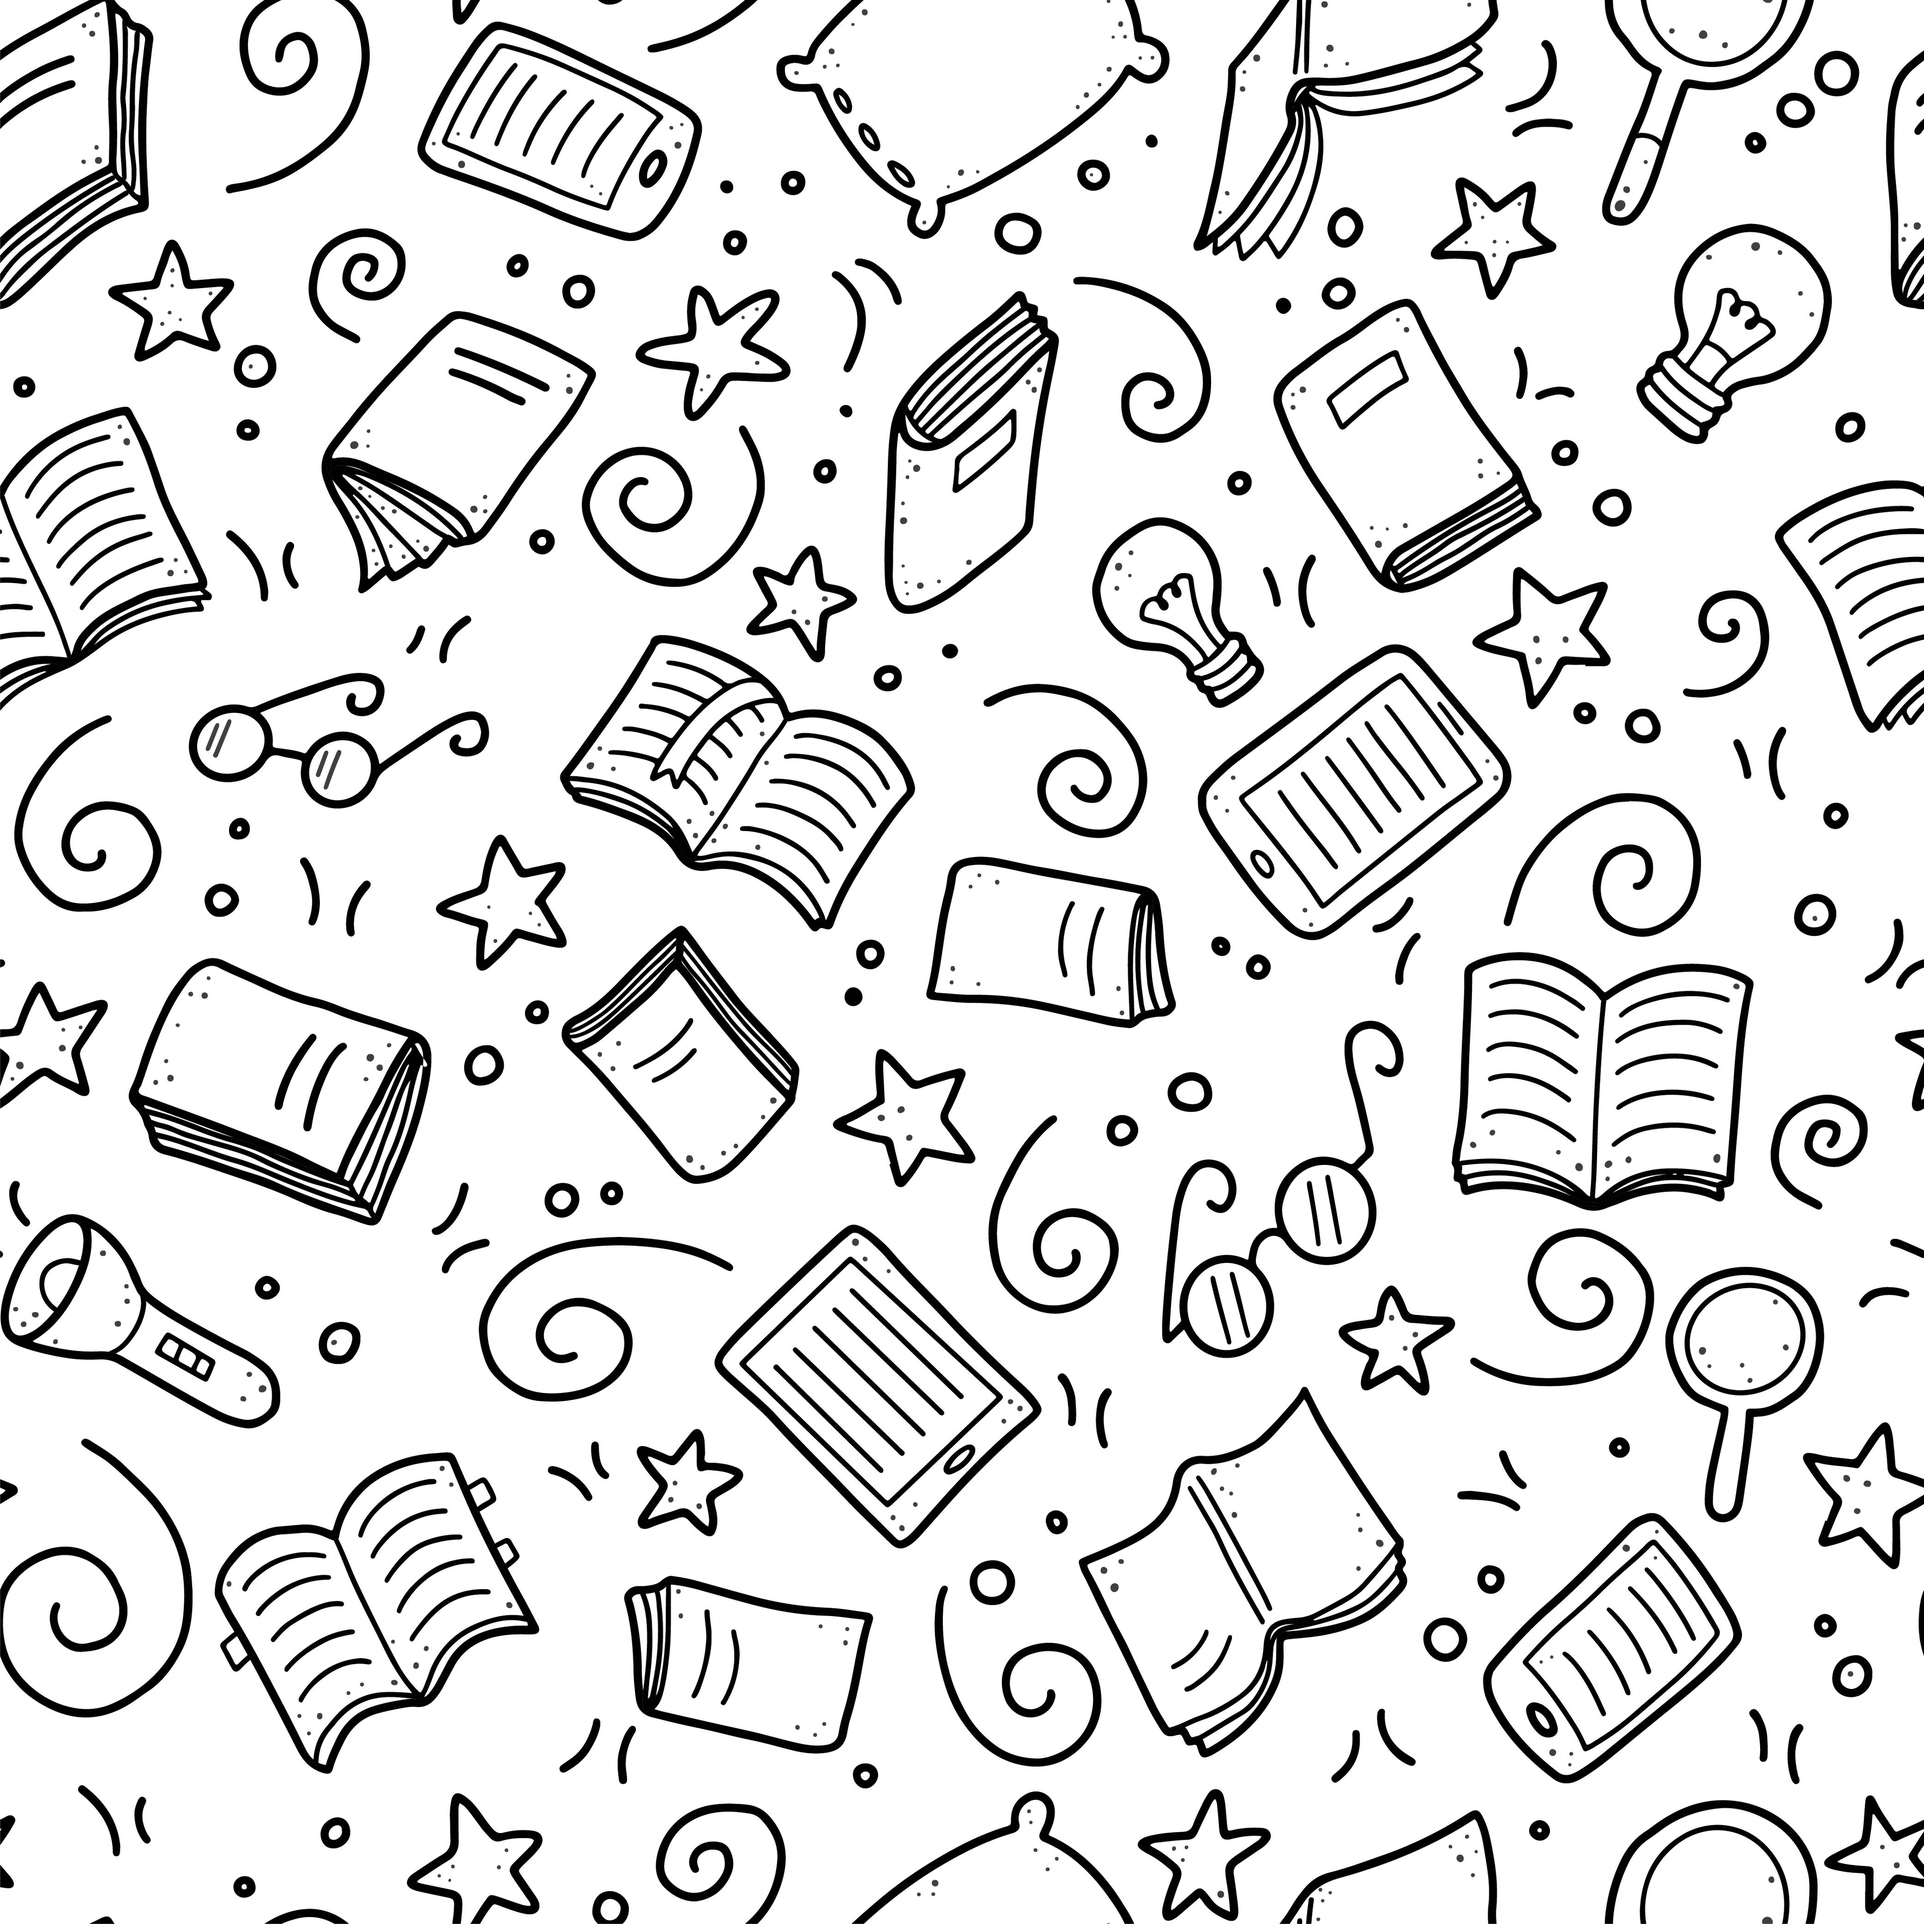
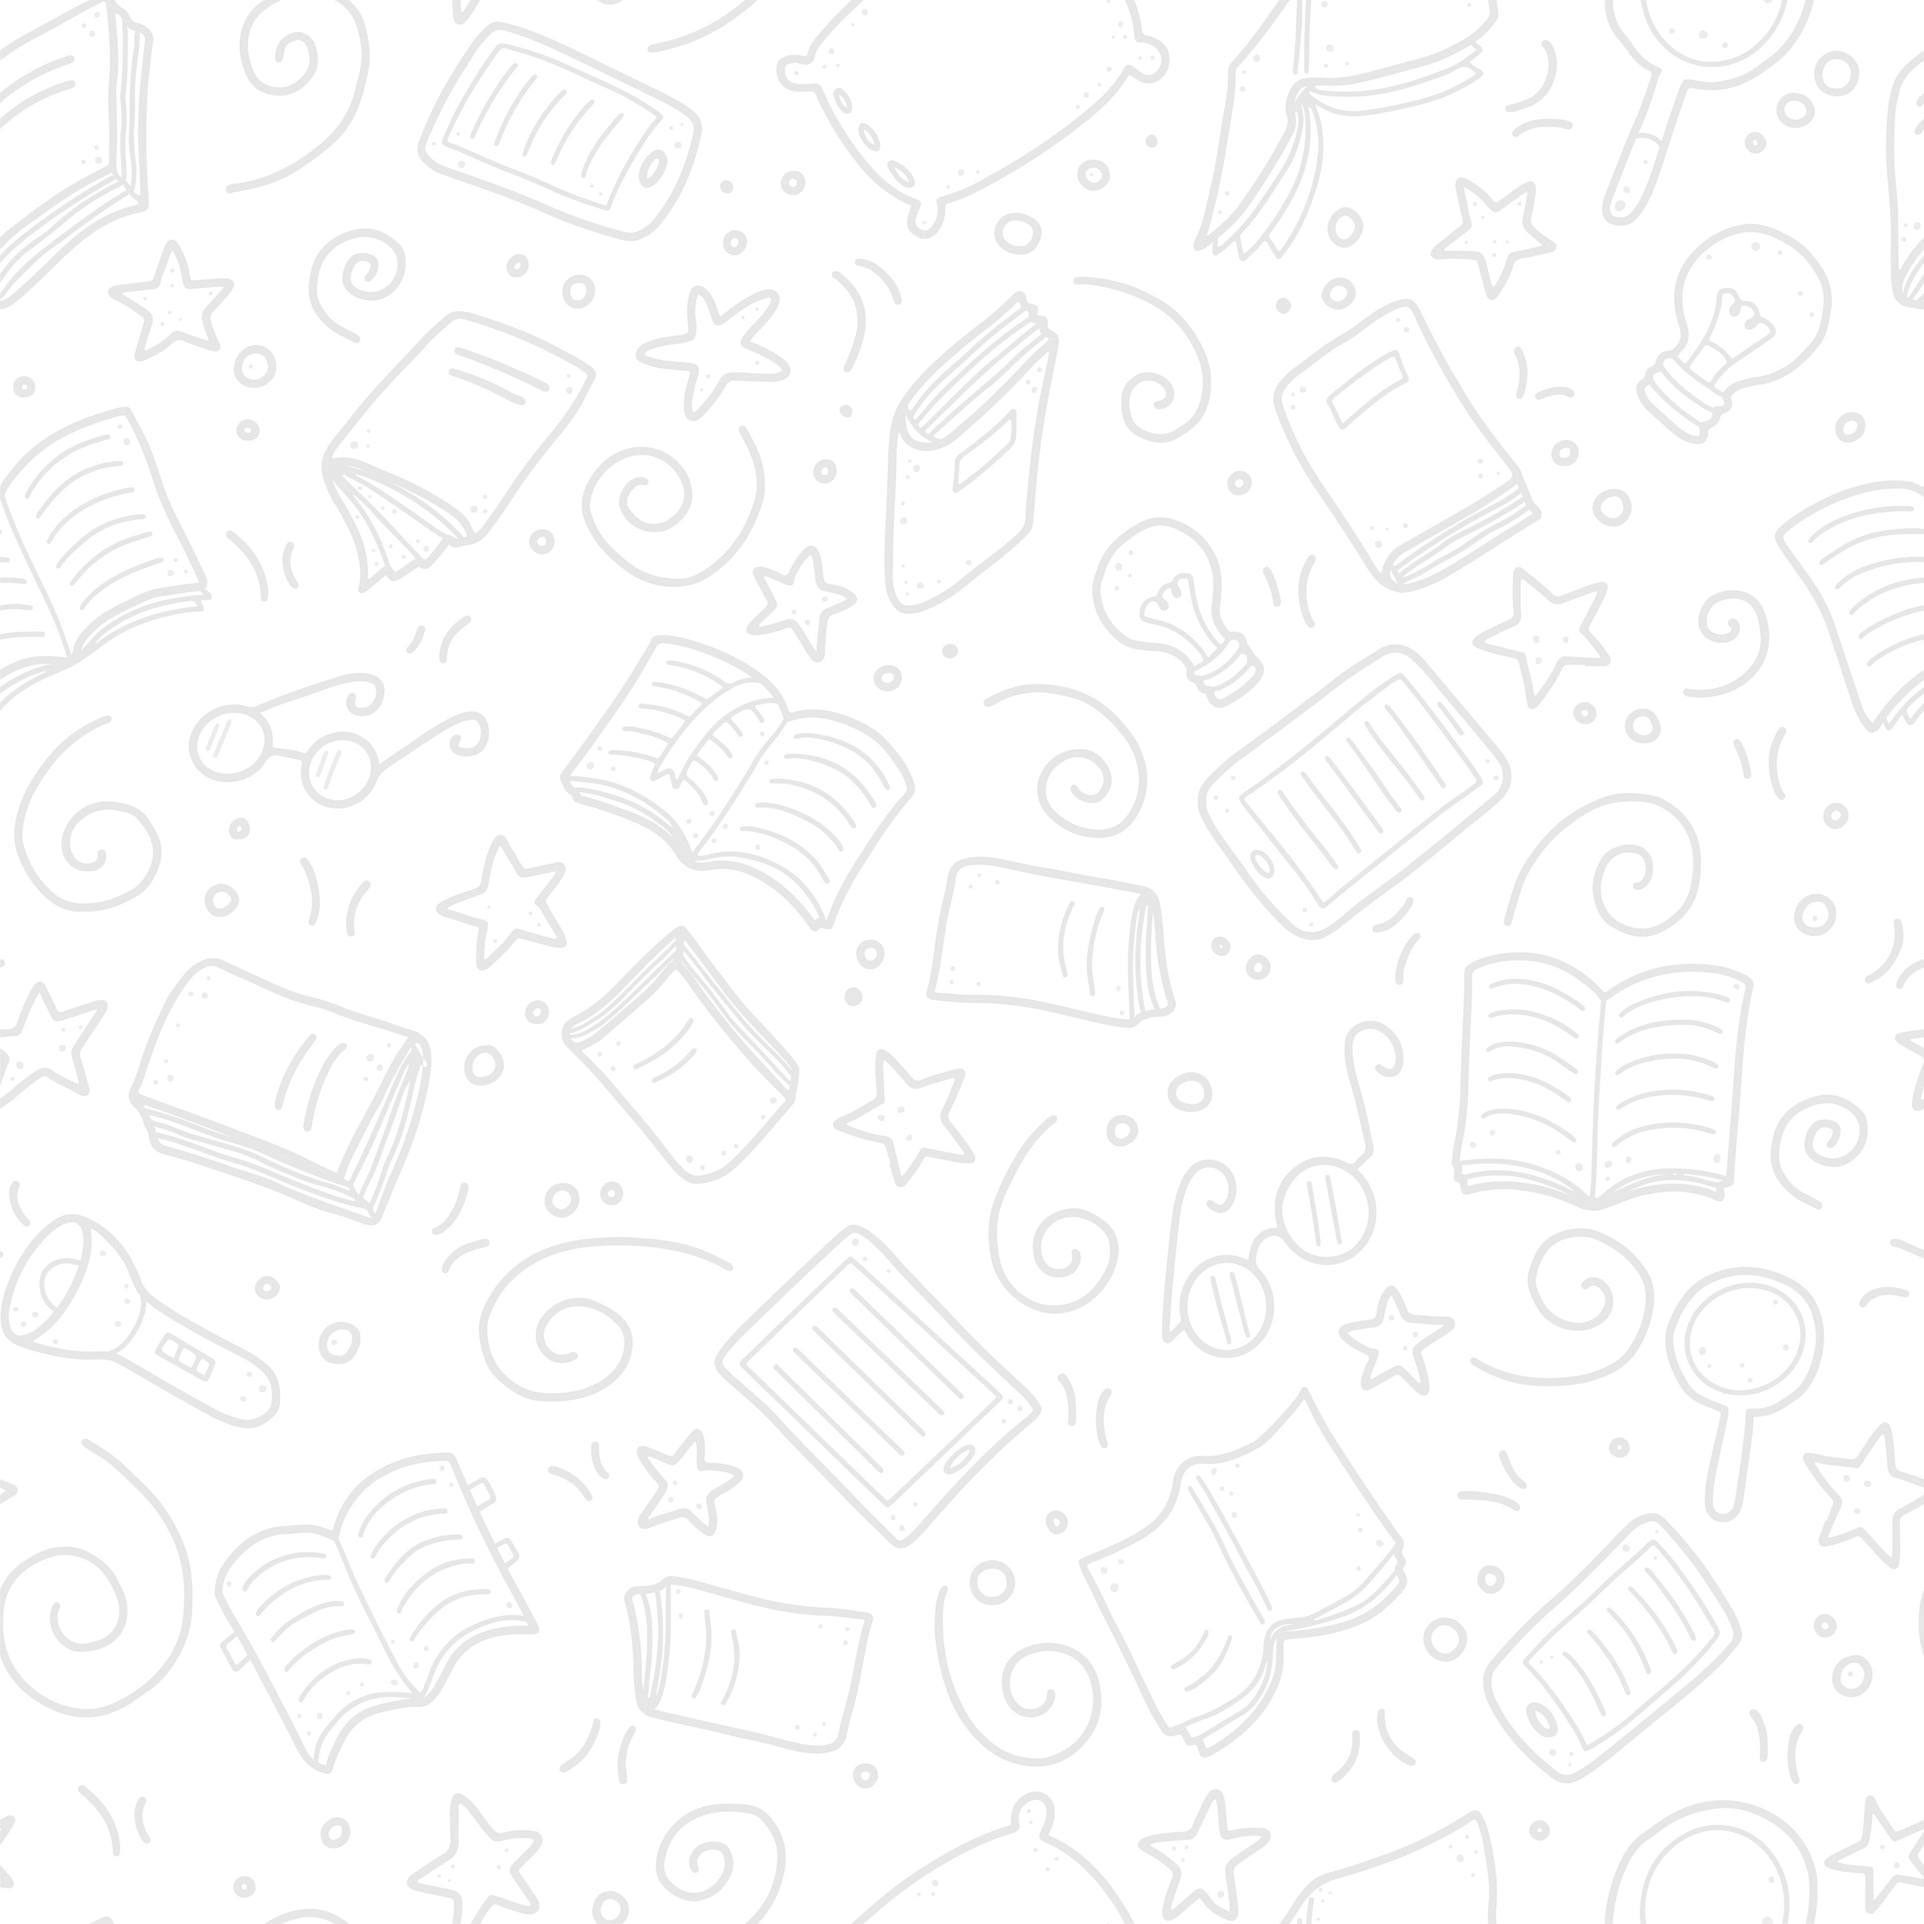
Fix background image not showing on Firefox
Blend mode made the image invisible on Firefox, so the lightened effect
was added directly to the image instead to maintain browser consistency.

diff --git a/styles.css b/styles.css
@@ -29,8 +29,6 @@
 body {
     line-height: 1.5;
     background-image: url(./images/background.jpeg);
-    background-color: rgba(255, 255, 255, .9);
-    background-blend-mode: lighten; 
     background-size: 350px;
 }
 
